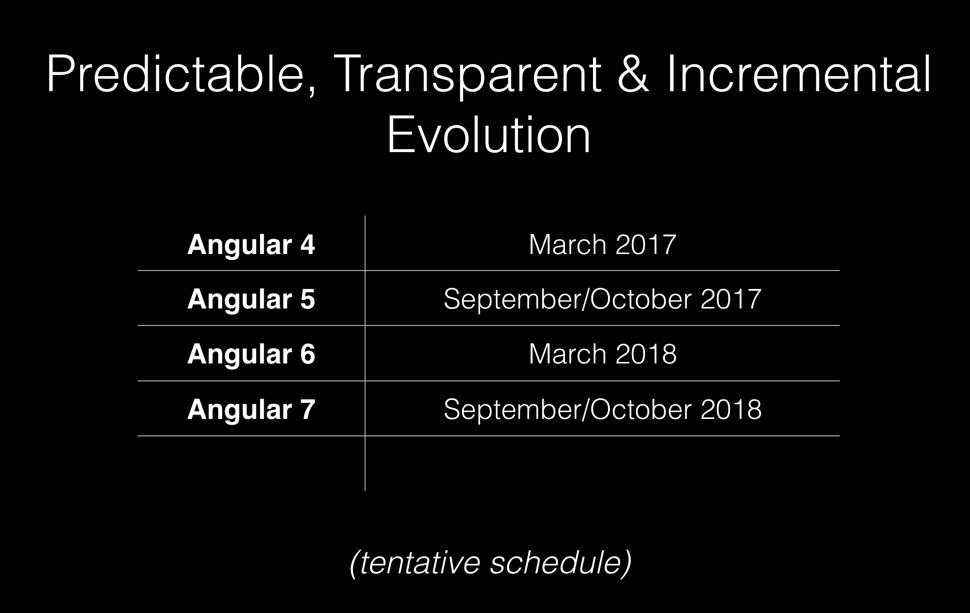
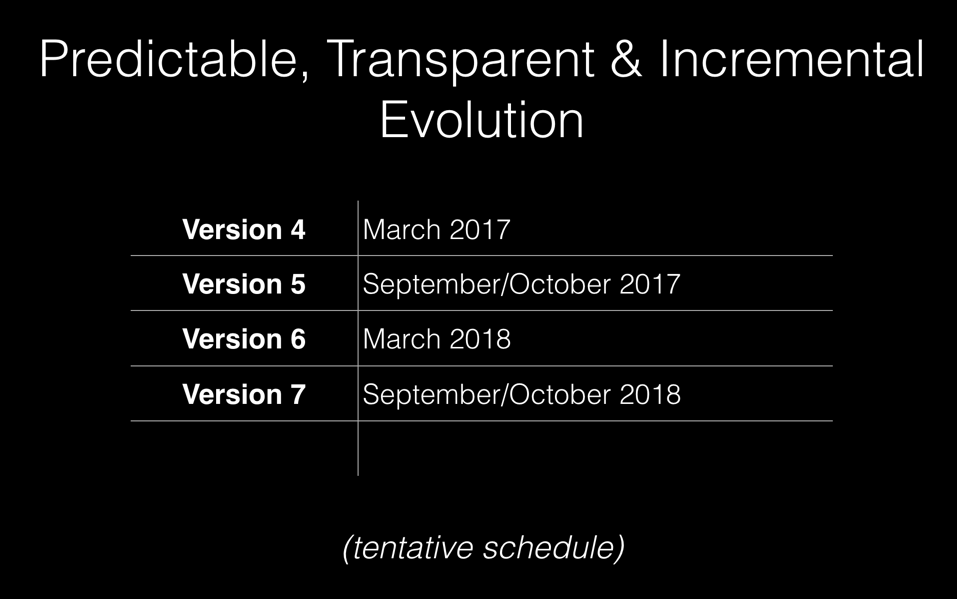
adjust post based on feedback from the Google team

Changed region(s): [[0.1515, 0.3606, 0.8788, 0.7813], [0.0303, 0.0601, 0.9697, 0.2705], [0.3333, 0.9015, 0.6667, 0.9616]]

diff --git a/_drafts/2016-12-10-let-me-explain-angular-semver.md b/_drafts/2016-12-10-let-me-explain-angular-semver.md
@@ -7,7 +7,7 @@ tags: [ "JavaScript", "Angular"]
 ---
 
 <div class="article-intro">
-    I just attended <a href="https://ng-be.org/" target="_blank">Belgium's first Angular conference (NG-BE)</a>. It was one of the best conferences I've been so far. But more on  that later. <a href="" target="_blank">Igor Minar (Angular lead dev)</a> was there as well and made a couple of interesting announcements regarding Angular's release schedule. Please read <strong>the entire post</strong>, there are a couple of important things.
+    At the 8th and 9th of December 2016 was <a href="https://ng-be.org/" target="_blank">NG-BE, Belgium’s first Angular conference</a>. <a href="https://twitter.com/IgorMinar" target="_blank">Igor Minar (Angular lead dev)</a> attended as the keynote speaker with some interesting announcements regarding Angular’s release schedule. Please read the <strong>entire post</strong>, there are a couple of important things.
 </div>
 
 {% include postads %}
@@ -27,9 +27,9 @@ So here it is:
 
 ## Angular uses SEMVER
 
-Back in September when the [new Angular was finally released](/blog/2016/09/ng2-released/), the Angular team also announced they will switch to [Semantic Versioning (SEMVER)](http://semver.org/).
+Back in September when the [new Angular was finally released](/blog/2016/09/ng2-released/), the Angular team also [announced](http://angularjs.blogspot.com/2016/10/versioning-and-releasing-angular.html) they will switch to [Semantic Versioning (SEMVER)](http://semver.org/).
 
-As the name already explains, Semantic Versioning is all a about **adding meaning to version numbers**. This allows us developer not only to reason about any upgrade we do, but we can even let tools such as NPM do it in a automatic and safe manner for us.  
+As the name already explains, Semantic Versioning is all about **adding meaning to version numbers**. This allows developers to not only reason about any upgrade we do, but we can even let tools such as NPM do it in a automatic and safe manner for us.  
 A semantic version consists of **three numbers**:
 
 <figure class="image--medium">
@@ -42,21 +42,22 @@ Whenever you fix a bug and release it, you increase the last number, if a new fe
 "A <i>breaking change</i> happens whenever you as a developer and consumer of a library, have to <i>step in</i> and adjust your code after a version upgrade."
 </blockquote>
 
-So what does this mean for the Angular team? As with every evolving piece of software, breaking changes will occur at some point. Even a silly thing like to change the API for the better, such as adjusting the name of a method (just to make a stupid example), anything that will break an existing application when upgrading Angular, requires the team to bump the **major version number**. 
+So what does this mean for the Angular team? As with every evolving piece of software, breaking changes will occur at some point. For example, giving a compiler error for existing application bugs that went unnoticed with the previous compiler version, anything, that will break an existing application when upgrading Angular, requires the team to bump the **major version number**.
 
-Just to be clear, as also [Igor said in his talk](https://youtu.be/aJIMoLgqU_o?t=15m3s). Right now, even just upgrading Angular's TypeScript dependency from v1.8 to v2.1 or v2.2 and compile Angular with it, would technically cause a breaking change. So they're taking SEMVER very, very seriously.
+
+Just to be clear, as also [Igor mentioned in his talk](https://youtu.be/aJIMoLgqU_o?t=15m3s). Right now, even just upgrading Angular's TypeScript dependency from v1.8 to v2.1 or v2.2 and compile Angular with it, would technically cause a breaking change. So they're taking SEMVER very, very seriously.
 
 ## Breaking changes don't have to be painful!
 
-People that have been following the Angular community for a while, definitely know what I'm talking about. We went from Angular 1 to Angular 2, and it was a total breaking change, with new APIs, new patterns. That was obvious: ultimately Angular 2 was a complete rewrite. (Even though [there are migration options for you available](https://angular.io/docs/ts/latest/guide/upgrade.html))
+People that have been following the Angular community for a while, definitely know what I'm talking about. We went from Angular 1 to Angular 2, and it was a total breaking change, with new APIs, new patterns. That was obvious: ultimately Angular 2 was a complete rewrite. (Even though [there are upgrade options for you available](https://angular.io/docs/ts/latest/guide/upgrade.html))
 
-Changing from Angular 2 to Angular 4, 5, ... won't be like changing from Angular 1 to Angular 2. **It won't be a complete rewrite**, it will simply be a change in some core libraries that demand for a major SEMVER version change. Also, there will be proper deprecation phases to allow developers to adjust their code.
+Changing from version 2 to version 4, 5, ... won't be like changing from Angular 1. **It won't be a complete rewrite**, it will simply be a change in some core libraries that demand a major SEMVER version change. Also, there will be proper [deprecation phases](http://angularjs.blogspot.com/2016/10/versioning-and-releasing-angular.html#Deprecation_policy_31) to allow developers to adjust their code.
 
-_The team even once proposed the release of a tool to automatically upgrade projects to major releases, a tool which they use internally at Google. But there are no further notices for such tool as of now._
+Internally at Google, the Angular team uses a tool for handling automatic upgrades, even of breaking changes. This is still something that has to be planned in more detail, but the team is working hard on making this tool generally available, most probably in 2017 in time for Angular 5.
 
 ## It's just "Angular"
 
-As you might have already guessed, the term "Angular 2" is also kind of deprecated once we get to Angular 4, 5 etc. That said, we should start naming it simply "Angular" without the version suffix.
+As you might have already guessed, the term "Angular 2" is also kind of deprecated once we get to version 4, 5 etc. That said, we should start naming it simply "Angular" without the version suffix.
 
 <blockquote class="emphasized">
 It's just #angular
@@ -67,16 +68,24 @@ Also, we should start avoiding GitHub/NPM libraries prefixed with `ng2-` or `ang
 <blockquote class="twitter-tweet" data-lang="en"><p lang="en" dir="ltr"><a href="https://twitter.com/toddmotto">@toddmotto</a> <a href="https://twitter.com/manekinekko">@manekinekko</a> <a href="https://twitter.com/jdfwarrior">@jdfwarrior</a> <a href="https://twitter.com/schwarty">@schwarty</a> but please don&#39;t call projects ng2- or angular2-, etc.</p>&mdash; Igor Minar (@IgorMinar) <a href="https://twitter.com/IgorMinar/status/807564558986514432">December 10, 2016</a></blockquote>
 <script async src="//platform.twitter.com/widgets.js" charset="utf-8"></script>
 
-### My proposal
+### Naming guidelines
 
-Use "AngularJS" for Angular 1.x and "Angular" for Angular 2+. Also in blog articles, consider to add a header line which defines which Angular SEMVER version you're using:
+The main suggestion is to use “Angular 1” and “Angular” (for v2+). This removes any kind of ambiguity and is probably a better approach of using “AngularJS” (for v1) which might still lead to confusion especially for Angular newcomers. All the docs - even for Angular 1 - will be aligned to this in the coming weeks.
+
+Here are some guidelines related to the naming:
+
+- Use “Angular” by default (“I’m an Angular developer”, “This is an Angular meetup”, “The Angular ecosystem is growing quickly”)
+- “Angular 1”, “Angular 2”, “Angular 4” when talking about a specific release train (e.g. when talking about a newly introduced feature - “This is an introduction to feature X, introduced in Angular 4”, “We are upgrading from Angular 1 to Angular 2”, “I’m proposing this change for Angular 5”)
+- Use full semver version when reporting a bug (“This issue is present as of Angular 2.3.1”)
+
+Also in blog articles, whenever you are targeting a very specific version of Angular, consider adding a header line which states that:
 
 > This articles uses Angular **v2.3.1**.
 
 That helps avoid confusion for your readers, especially when you are writing about specific APIs.
 _(I'll update [my existing articles](/blog/collections/angular-2/) here accordingly)_
 
-## Why not Angular 3 then?
+## Why not version 3 then?
 
 The core Angular libraries live in one single GitHub repository at [github.com/angular/angular](https://github.com/angular/angular). All of them are versioned the same way, but distributed as different NPM packages:
 
@@ -89,11 +98,17 @@ The core Angular libraries live in one single GitHub repository at [github.com/a
 
 **Due to this misalignment of the router package's version**, the team decided to go straight for Angular v4. In this way again, all the core packages are aligned which will be easier to maintain and help avoid confusion in the future.
 
-## Tentantive Release schedule
+Also it is important to understand how Angular is being used and integrated inside Google (Igor [speaks about this here in his keynote](https://youtu.be/aJIMoLgqU_o?t=9m10s)). Google runs GitHub’s master@HEAD from the Angular repository. So whenever a new commit lands in master, it will be integrated into Google’s single mono-repo, where also other products such as Maps, Adsense. live. As a consequence all of the projects using Angular internally at Google will run their extensive test suites against this new version. This makes the team very confident to cut a new release, since it will contain the exact combination of versions of Angular packages that have been already battle tested inside Google. Thus, having aligned versions totally makes sense and makes it easier to maintain them over time, which in turn helps the team be more productive in releasing new features.
 
-The fact breaking changes will arrive, doesn't mean they will arrive every other week. The **Angular team tries to agree on a long-term schedule**, meaning they will try to schedule the breaking changes only every six months.
+## Tentative Release schedule
 
-The next 3 months will be dedicated to finalizing Angular 4.
+The fact that breaking changes will arrive, doesn't mean they will arrive every other week. The Angular team committed to [time based releases that occur in three cycles](http://angularjs.blogspot.com/2016/10/versioning-and-releasing-angular.html#Timebased_release_cycles_18):
+
+- patch releases every week,
+- monthly minor release after each major release and
+- a major release with easy-to-migrate-over breaking changes every 6 months.
+
+The next 3 months will be dedicated to finalizing Angular 4.0.0.
 
 <figure class="image--medium">
     <a href="/blog/assets/imgs/angular4-tentativeschedule.png" class="image--zoom">
@@ -101,7 +116,7 @@ The next 3 months will be dedicated to finalizing Angular 4.
     </a>
 </figure>
 
-After Angular 4, this will be the _tentative schedule_ for further releases:
+After Angular 4.0.0, this will be the _tentative schedule_ for further releases:
 
 <figure class="image--medium">
     <a href="/blog/assets/imgs/angular-releases.png" class="image--zoom">
@@ -118,13 +133,12 @@ So you can see that **major versions will be released approximately every 6 mont
 
 ## Conclusion
 
-There's one message I'd like to clearly give: **we need to stop worrying about version numbers**! Semver allows us to reason about them and gives us a tool for estimating the impact of a change and thus helps us decide whether to upgrade or not.
+There are two main important messages here:
 
-<blockquote class="emphasized">
-Stop worrying about version numbers!
-</blockquote>
+1. don’t worry about version numbers
+1. we do need to evolve Angular in order to avoid another Angular 1 to Angular 2 change, but we should do it **together as a community in a transparent, predictable and incremental way**.
 
-Also, I'd like to thank Igor for being so open at presenting this data, especially since he knows what a sensitive kind of topic breaking changes are and have been in the past. This means a lot and the community should be really thankful for this.
+Also, I'd like to thank Igor for being so open at presenting this data, especially since he knows what a sensitive topic breaking changes are and have been in the past. This means a lot and I hope that the community will realize why all these changes are good for everyone involved.
 
 ### Still questions?
 
